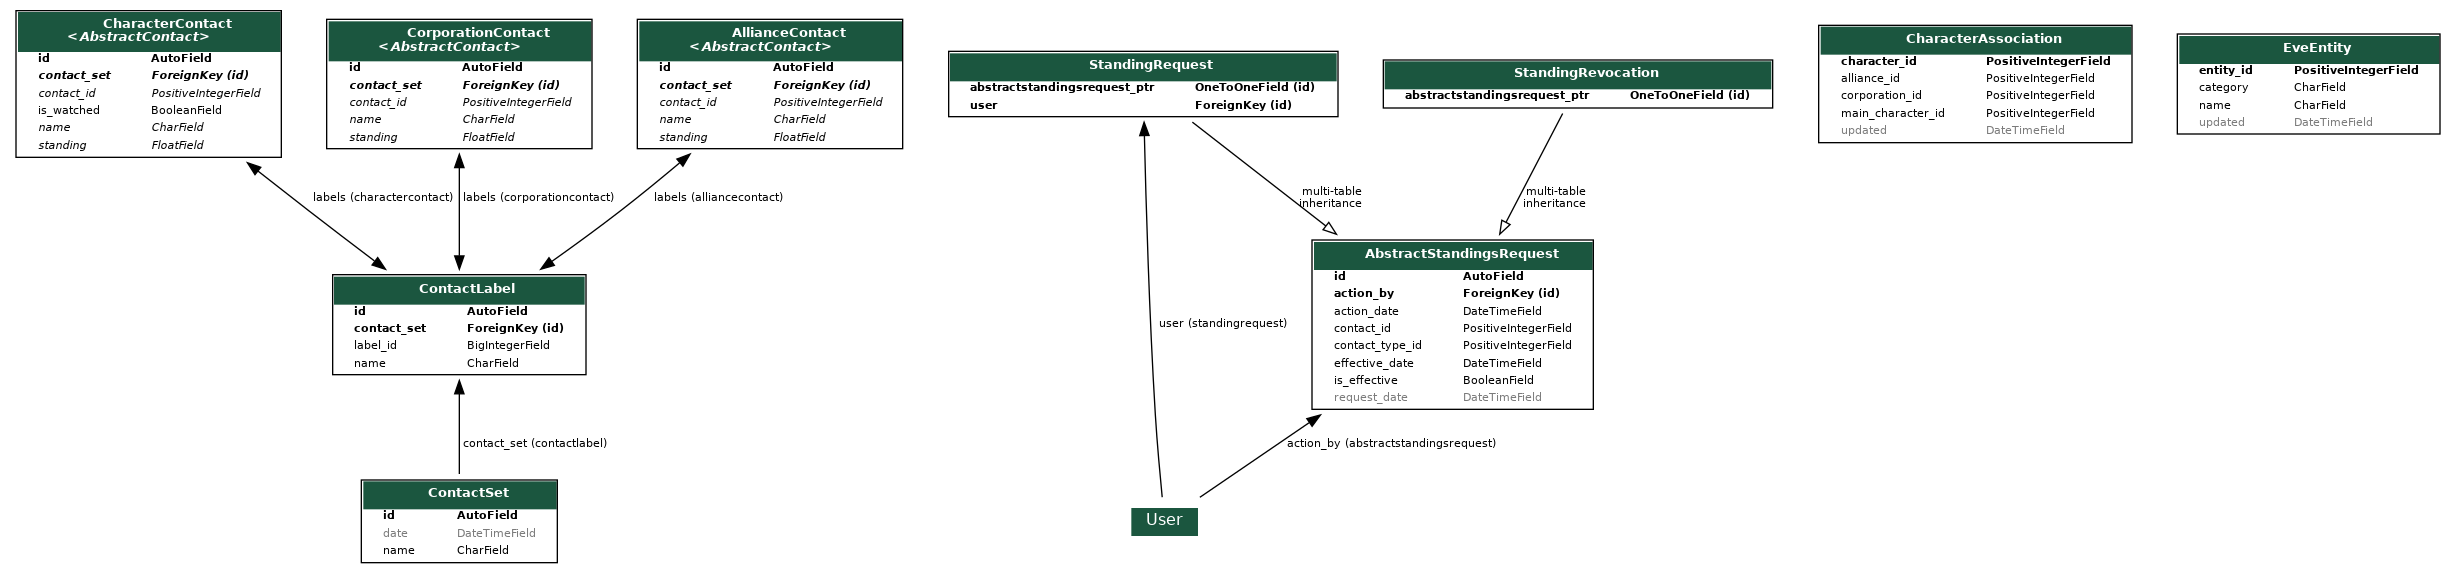
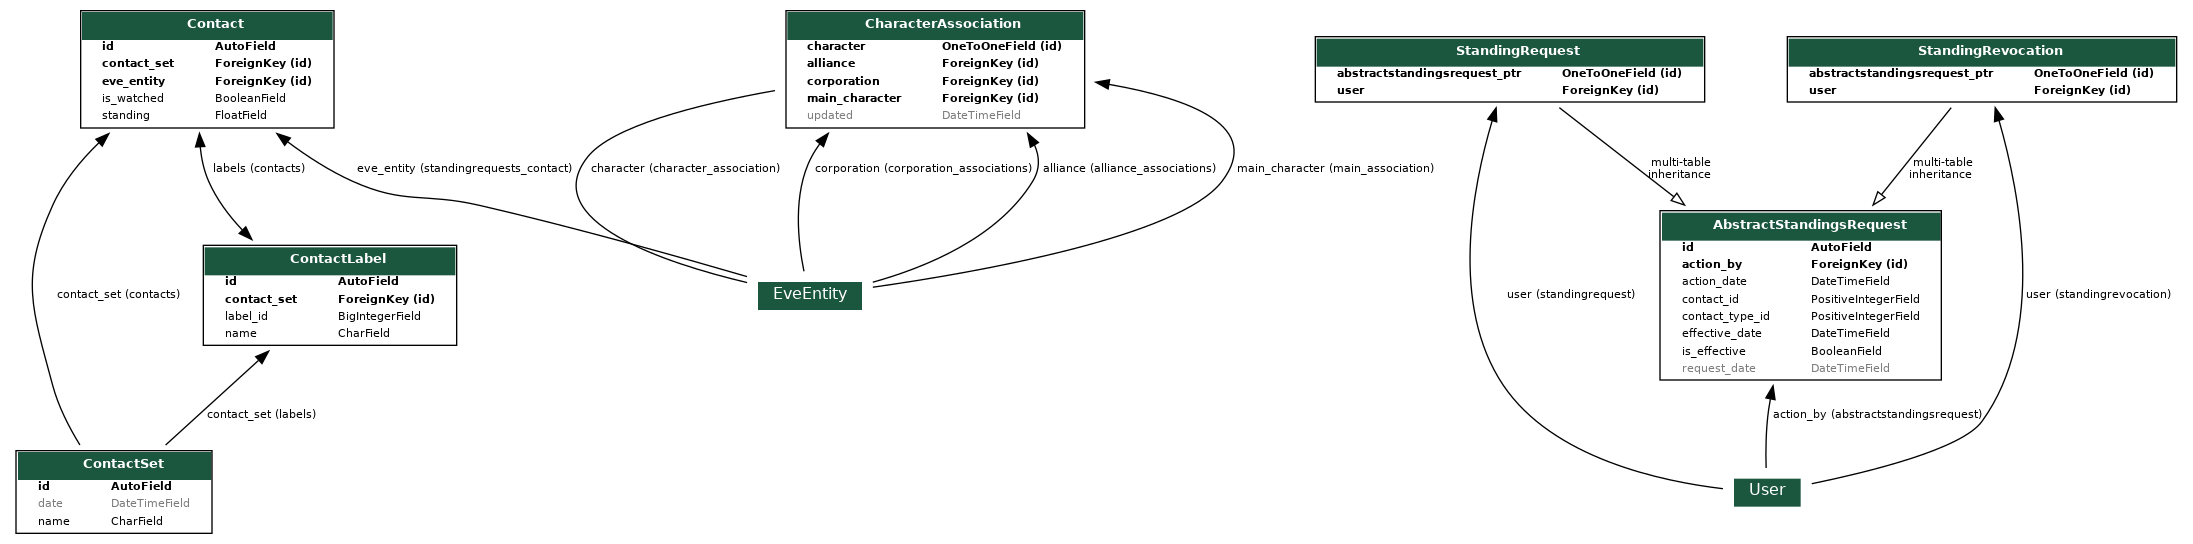
Make EveCharacterHelper use new CharacterAssoociations for better peformance

diff --git a/standingsrequests/views.py b/standingsrequests/views.py
@@ -903,13 +903,13 @@ def _compose_standing_requests_data(
         )
     }
     requests_data = list()
-    for r in requests_qs:
+    for req in requests_qs:
         main_character_name = ""
         main_character_ticker = ""
         main_character_icon_url = ""
-        if r.user:
-            state_name = r.user.profile.state.name
-            main = r.user.profile.main_character
+        if req.user:
+            state_name = req.user.profile.state.name
+            main = req.user.profile.main_character
             if main:
                 main_character_name = main.character_name
                 main_character_ticker = main.corporation_ticker
@@ -917,11 +917,11 @@ def _compose_standing_requests_data(
         else:
             state_name = "(no user)"
 
-        if r.is_character:
-            if r.contact_id in eve_characters:
-                character = eve_characters[r.contact_id]
+        if req.is_character:
+            if req.contact_id in eve_characters:
+                character = eve_characters[req.contact_id]
             else:
-                character = EveCharacterHelper(r.contact_id)
+                character = EveCharacterHelper(req.contact_id)
 
             contact_name = character.character_name
             contact_icon_url = character.portrait_url(DEFAULT_ICON_SIZE)
@@ -935,11 +935,11 @@ def _compose_standing_requests_data(
             alliance_id = character.alliance_id
             alliance_name = character.alliance_name if character.alliance_name else ""
             has_scopes = StandingRequest.has_required_scopes_for_request(
-                character=character, user=r.user, quick_check=quick_check
+                character=character, user=req.user, quick_check=quick_check
             )
 
-        elif r.is_corporation and r.contact_id in eve_corporations:
-            corporation = eve_corporations[r.contact_id]
+        elif req.is_corporation and req.contact_id in eve_corporations:
+            corporation = eve_corporations[req.contact_id]
             contact_icon_url = corporation.logo_url(DEFAULT_ICON_SIZE)
             contact_name = corporation.corporation_name
             corporation_id = corporation.corporation_id
@@ -950,7 +950,7 @@ def _compose_standing_requests_data(
             has_scopes = (
                 not corporation.is_npc
                 and corporation.user_has_all_member_tokens(
-                    user=r.user, quick_check=quick_check
+                    user=req.user, quick_check=quick_check
                 )
             )
 
@@ -966,7 +966,7 @@ def _compose_standing_requests_data(
 
         requests_data.append(
             {
-                "contact_id": r.contact_id,
+                "contact_id": req.contact_id,
                 "contact_name": contact_name,
                 "contact_icon_url": contact_icon_url,
                 "corporation_id": corporation_id,
@@ -974,18 +974,18 @@ def _compose_standing_requests_data(
                 "corporation_ticker": corporation_ticker,
                 "alliance_id": alliance_id,
                 "alliance_name": alliance_name,
-                "request_date": r.request_date.isoformat(),
-                "action_date": r.action_date.isoformat() if r.action_date else None,
+                "request_date": req.request_date.isoformat(),
+                "action_date": req.action_date.isoformat() if req.action_date else None,
                 "has_scopes": has_scopes,
                 "state": state_name,
                 "main_character_name": main_character_name,
                 "main_character_ticker": main_character_ticker,
                 "main_character_icon_url": main_character_icon_url,
-                "actioned": r.is_actioned,
-                "is_effective": r.is_effective,
-                "is_corporation": r.is_corporation,
-                "is_character": r.is_character,
-                "action_by": r.action_by.username if r.action_by else "(System)",
+                "actioned": req.is_actioned,
+                "is_effective": req.is_effective,
+                "is_corporation": req.is_corporation,
+                "is_character": req.is_character,
+                "action_by": req.action_by.username if req.action_by else "(System)",
             }
         )
 

diff --git a/standingsrequests/helpers/evecharacter.py b/standingsrequests/helpers/evecharacter.py
@@ -1,5 +1,3 @@
-from eveuniverse.models import EveEntity
-
 from allianceauth.eveonline.evelinks import eveimageserver
 
 from ..models import CharacterAssociation
@@ -20,13 +18,14 @@ class EveCharacterHelper:
         self.main_character = None
         self.alliance_name = None
         try:
-            assoc = CharacterAssociation.objects.get(character_id=self.character_id)
-
+            assoc = CharacterAssociation.objects.select_related(
+                "character", "corporation", "alliance", "main_character"
+            ).get(character_id=self.character_id)
         except CharacterAssociation.DoesNotExist:
+            assoc = None
             self.corporation_id = None
             self.corporation_name = None
             self.alliance_id = None
-
         else:
             self.corporation_id = assoc.corporation_id
             self.alliance_id = assoc.alliance_id
@@ -38,21 +37,13 @@ class EveCharacterHelper:
             ):
                 self.main_character = EveCharacterHelper(assoc.main_character_id)
 
-        entity_ids = [
-            entity_id
-            for entity_id in [self.character_id, self.corporation_id, self.alliance_id]
-            if entity_id is not None
-        ]
-        resolver = EveEntity.objects.bulk_resolve_names(entity_ids)
         self.character_name = (
-            resolver.to_name(self.character_id) if self.character_id else None
+            assoc.character.name if assoc and assoc.character else None
         )
         self.corporation_name = (
-            resolver.to_name(self.corporation_id) if self.corporation_id else None
+            assoc.corporation.name if assoc and assoc.corporation else None
         )
-        self.alliance_name = (
-            resolver.to_name(self.alliance_id) if self.alliance_id else None
-        )
+        self.alliance_name = assoc.alliance.name if assoc and assoc.alliance else None
 
     def portrait_url(self, size: int = eveimageserver._DEFAULT_IMAGE_SIZE) -> str:
         return eveimageserver.character_portrait_url(self.character_id, size)

diff --git a/standingsrequests/helpers/evecorporation.py b/standingsrequests/helpers/evecorporation.py
@@ -172,25 +172,22 @@ class EveCorporation:
         Fetches requested corporations from cache or API as needed.
         Uses threads to fetch them in parallel.
         """
-        if len(corporation_ids) == 0:
+        corporation_ids = set(corporation_ids)
+        if not corporation_ids:
             return []
-        else:
-            _esi_client()  # make sure client is loaded before starting threads
-            logger.info(
-                "Starting to fetch the %d corporations from ESI with up to %d workers",
-                len(corporation_ids),
-                MAX_WORKERS,
-            )
-            with ThreadPoolExecutor(max_workers=MAX_WORKERS) as executor:
-                futures = [
-                    executor.submit(cls.thread_fetch_corporation, corporation_id)
-                    for corporation_id in corporation_ids
-                ]
-                logger.info(
-                    "Waiting for all threads fetching corporations to complete..."
-                )
 
-            logger.info(
-                "Completed fetching %d corporations from ESI", len(corporation_ids)
-            )
-            return [f.result() for f in futures]
+        _esi_client()  # make sure client is loaded before starting threads
+        logger.info(
+            "Starting to fetch the %d corporations from ESI with up to %d workers",
+            len(corporation_ids),
+            MAX_WORKERS,
+        )
+        with ThreadPoolExecutor(max_workers=MAX_WORKERS) as executor:
+            futures = [
+                executor.submit(cls.thread_fetch_corporation, corporation_id)
+                for corporation_id in corporation_ids
+            ]
+            logger.info("Waiting for all threads fetching corporations to complete...")
+
+        logger.info("Completed fetching %d corporations from ESI", len(corporation_ids))
+        return [f.result() for f in futures]

diff --git a/standingsrequests/tests/test_helpers_evecharacter.py b/standingsrequests/tests/test_helpers_evecharacter.py
@@ -17,11 +17,11 @@ class TestEveCharacter(NoSocketsTestCase):
     @classmethod
     def setUpClass(cls):
         super().setUpClass()
+        create_contacts_set()
         create_entity(EveCharacter, 1001)
         generate_eve_entities_from_allianceauth()
 
     def test_init_with_data_has_alliance(self):
-        create_contacts_set()
         character = EveCharacterHelper(character_id=1002)
         self.assertEqual(character.character_id, 1002)
         self.assertEqual(character.character_name, "Peter Parker")
@@ -33,7 +33,6 @@ class TestEveCharacter(NoSocketsTestCase):
         self.assertEqual(main.character_id, 1001)
 
     def test_init_with_data_has_no_alliance(self):
-        create_contacts_set()
         character = EveCharacterHelper(character_id=1004)
         self.assertEqual(character.character_id, 1004)
         self.assertEqual(character.character_name, "Kara Danvers")
@@ -43,7 +42,6 @@ class TestEveCharacter(NoSocketsTestCase):
         self.assertIsNone(character.alliance_name)
 
     def test_init_with_data_has_no_main(self):
-        create_contacts_set()
         assoc = CharacterAssociation.objects.get(character_id=1001)
         assoc.main_character = None
         assoc.save()
